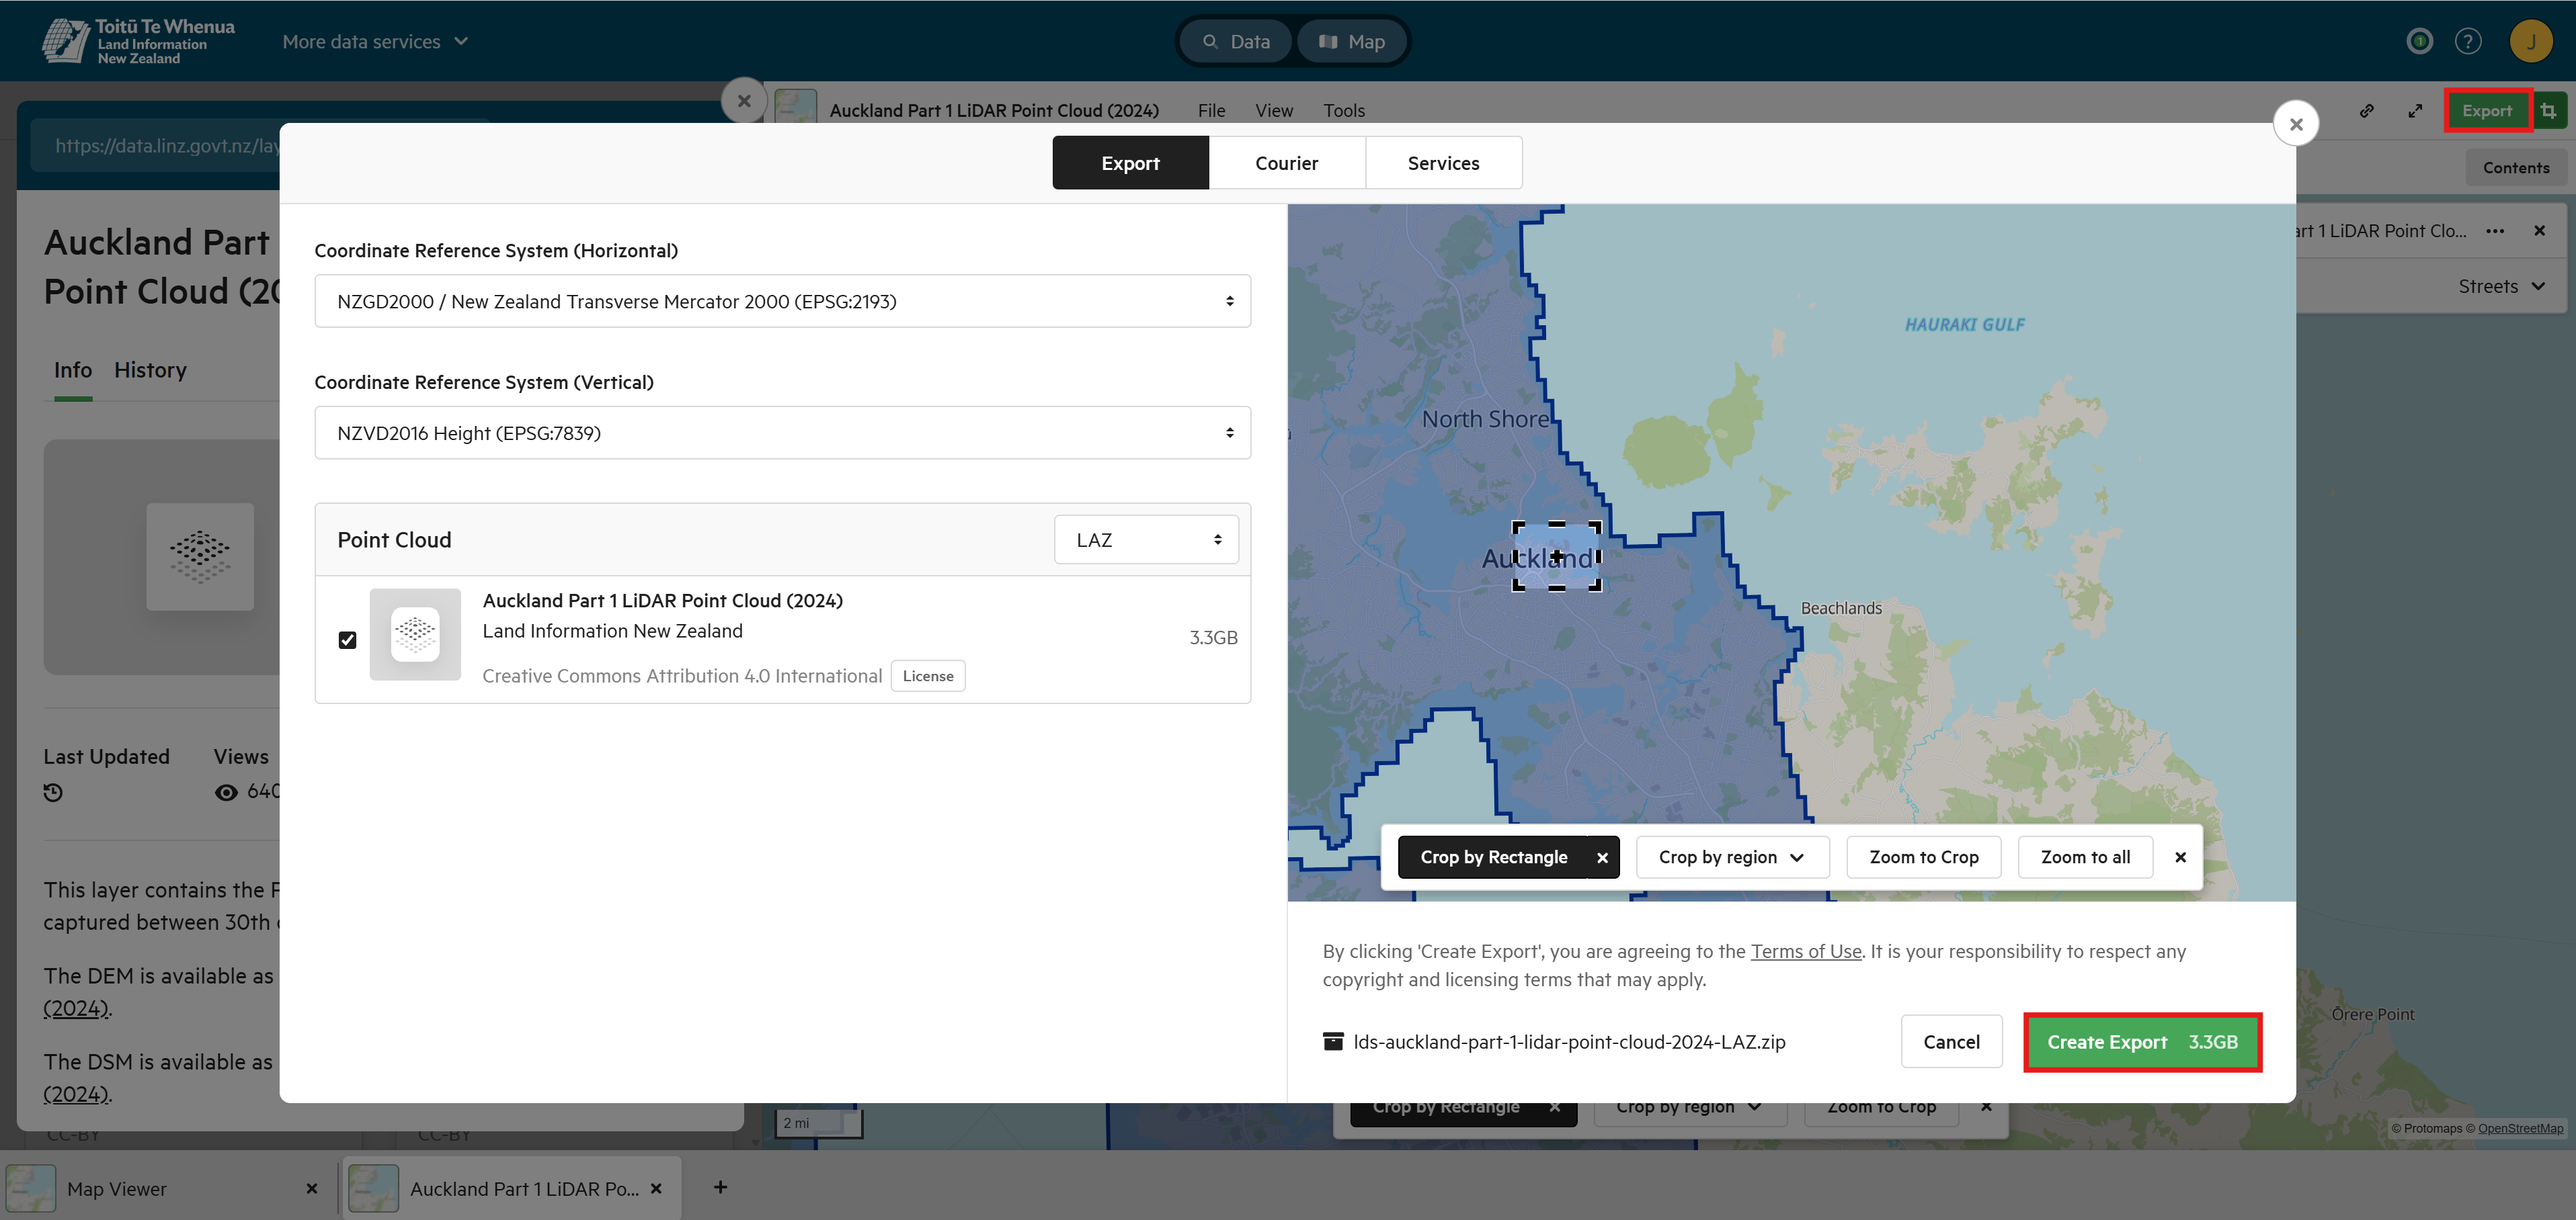
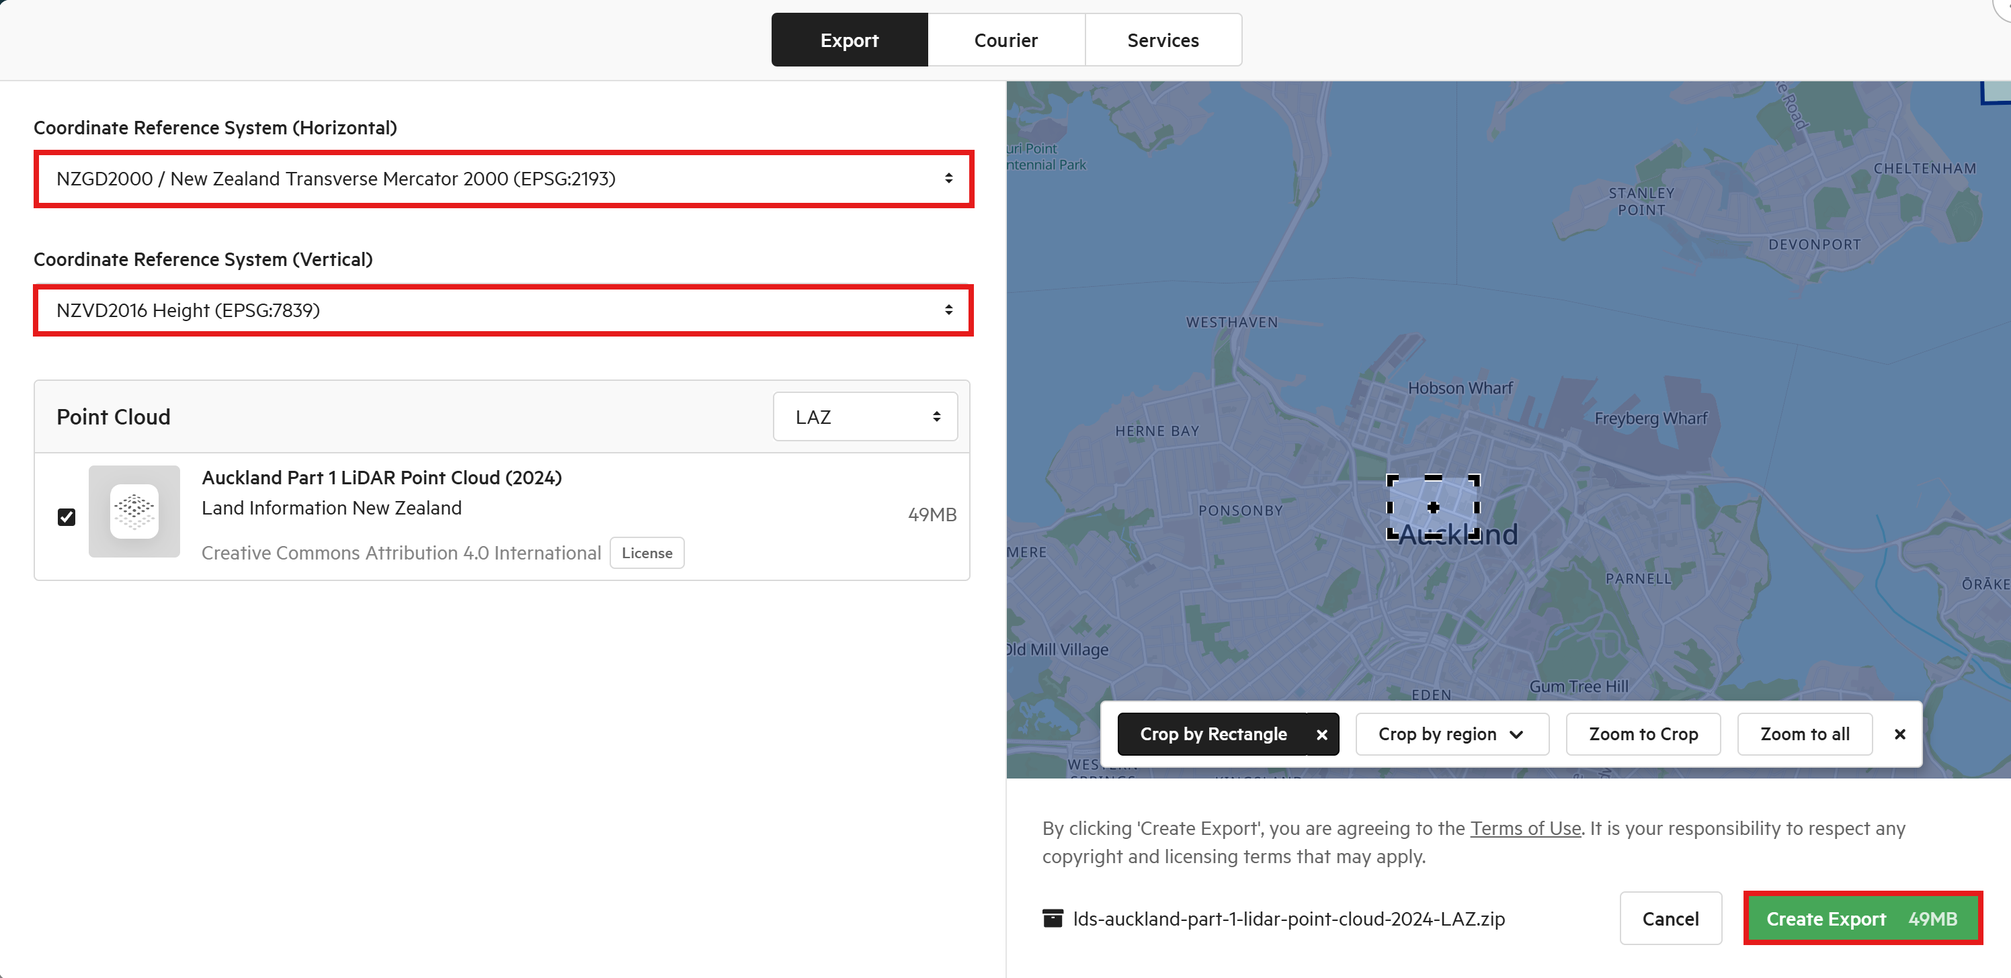
데이터 수집 가이드 수정

diff --git a/foss4g-2025/guides/1_Resource_Guide_Ko.md b/foss4g-2025/guides/1_Resource_Guide_Ko.md
@@ -1,31 +1,25 @@
 # mago3D 데이터 수집 가이드
 
 ## 기본 설정
-### 1. 워크샵 디렉터리 구조 생성
+### 1. 레포지토리 클론
 
-실습에 사용할 폴더를 생성합니다.  
-이 폴더는 실습 과정에서 데이터를 저장하고 관리하기 위한 기본 작업 공간이 됩니다.  
-Windows와 Mac/Linux 환경에 맞춰 아래 단계를 따라 진행하세요.
+https://github.com/Gaia3D/mago3d-doc 의 git 주소를 복사합니다.
 
-- Windows
-  1. 명령 프롬프트 실행 
-     - 시작 메뉴에서 cmd 또는 명령 프롬프트를 검색하여 실행합니다.
-  2. 아래 명령어를 입력하여 폴더를 생성합니다:
-     ```sh
-     C:\> mkdir mago3d
-     ```
-  3. 생성된 폴더는 C:\mago3d 경로에 위치합니다.
+![](../images/git_url.png)
 
-- Mac / Linux
-  1. 터미널 실행 
-     - Mac에서는 Launchpad에서, Linux에서는 응용 프로그램 메뉴에서 터미널을 실행합니다.
-  2. 아래 명령어를 입력하여 폴더를 생성합니다:
-     ```sh
-     mkdir ~/mago3d
-     ```
-  3. 생성된 폴더는 홈 디렉토리`~/mago3d`에 위치합니다.
+`C:\` 에서 git bash를 엽니다.
 
-<br/>
+![](../images/git_bash.png)
+
+복사한 url을 붙여넣어 레포지토리를 클론합니다.
+```
+git clone https://github.com/Gaia3D/mago3d-doc.git
+```
+
+![](../images/git_clone.png)
+
+`C:\mago3d-doc` 폴더가 생성된다면 성공입니다.
+
 이제 실습 준비가 완료되었습니다. 다음 단계를 진행하세요! 🚀
 
 ---
@@ -44,6 +38,15 @@ Visual Studio Code 또는 IntelliJ 사용을 권장합니다.
 이번 워크샵의 대부분의 실습은 도커 명령어로 실행됩니다.
 
 만약 도커가 설치 되어있지 않다면 실습 진행이 어려우므로, [https://www.docker.com/](https://www.docker.com/) 에서 도커를 다운 받으신 후 진행 하시기 바랍니다.
+
+터미널을 열고 Docker가 설치되었는지 확인합니다. 다음 명령어를 입력하세요.
+   ```sh
+   docker --version
+   ```
+정상적으로 설치되었을 경우 다음과 같이 출력됩니다.
+   ```sh
+   Docker version 27.3.1, build ce12230
+   ```
 
 ---
 ### 4. LINZ Data Service API 키 발행
@@ -67,7 +70,9 @@ Visual Studio Code 또는 IntelliJ 사용을 권장합니다.
 
 **1. 파이썬 설치**
 
-- Python을 설치합니다 [https://www.python.org/downloads/](https://www.python.org/downloads/)
+- Python을 다운로드 합니다 [https://www.python.org/downloads/](https://www.python.org/downloads/)
+
+   ![](../images/python_download.png)
 
 - 설치 시 하단의 [Add python.exe to PATH]를 체크한 후 [Install Now]를 클릭합니다.
 
@@ -87,11 +92,11 @@ Visual Studio Code 또는 IntelliJ 사용을 권장합니다.
 
    - Windows
       ```sh
-      cd C:\mago3d
+      cd C:\mago3d-doc
       ```
    - Mac / Linux
       ```sh
-      cd ~/mago3d
+      cd ~/mago3d-doc
       ```
 
 - 다음 명령어를 입력하여 가상환경을 생성합니다.
@@ -129,7 +134,7 @@ Visual Studio Code 또는 IntelliJ 사용을 권장합니다.
       --bbox=174.7493740584586419,-36.8648980092102789,174.7949689180301220,-36.8329413929010130 ^
       -f geojson ^
       --type=building ^
-      -o foss4g-2025\public\auckland_central_building.geojson
+      -o foss4g-2025/public/auckland_central_building.geojson
       ```
    - Powershell
       ```
@@ -148,6 +153,11 @@ Visual Studio Code 또는 IntelliJ 사용을 권장합니다.
       -o foss4g-2025/public/auckland_central_building.geojson
       ```
 
+   - 결과물은 다음 경로에 저장됩니다
+      ```
+      foss4g-2025/public
+      └── auckland_central_building.geojson
+      ```
 - land-use
    - Windows
       ```
@@ -172,6 +182,11 @@ Visual Studio Code 또는 IntelliJ 사용을 권장합니다.
       -f geojson \
       --type=land_use \
       -o foss4g-2025/public/auckland_central_land_use.geojson
+      ```
+   - 결과물은 다음 경로에 저장됩니다
+      ```
+      foss4g-2025/public
+      └── auckland_central_land_use.geojson
       ```
 
 ---
@@ -200,9 +215,17 @@ https://data.linz.govt.nz/layer/121859-new-zealand-lidar-1m-dem/
 
 ![](../images/crop_dem.png)
 
+CRS를 설정하고 Export 합니다.
+
 ![](../images/export_dem.png)
 
+파일을 다운로드합니다.
+
 ![](../images/download_dem.png)
+
+다운로드 받은 파일의 압축을 풀고, `BA32.tif` 파일을 `foss4g-2025/public` 경로에 복사합니다.
+
+![](../images/copy_dem.png)
 
 ---
 ### 포인트 클라우드 데이터
@@ -213,6 +236,14 @@ https://data.linz.govt.nz/layer/d3VcCb5rKzNsNGk/auckland-part-1-lidar-point-clou
 
 ![](../images/crop_pointcloud.png)
 
+CRS를 설정하고 Export 합니다. 최대 50MB를 넘지 않도록 영역을 설정해주세요.
+
 ![](../images/export_pointcloud.png)
 
+파일을 다운로드합니다.
+
 ![](../images/download_pointcloud.png)
+
+다운로드 받은 파일의 압축을 풀고, `.laz` 파일들을 `foss4g-2025/public` 경로에 복사합니다.
+
+![](../images/copy_pointcloud.png)
